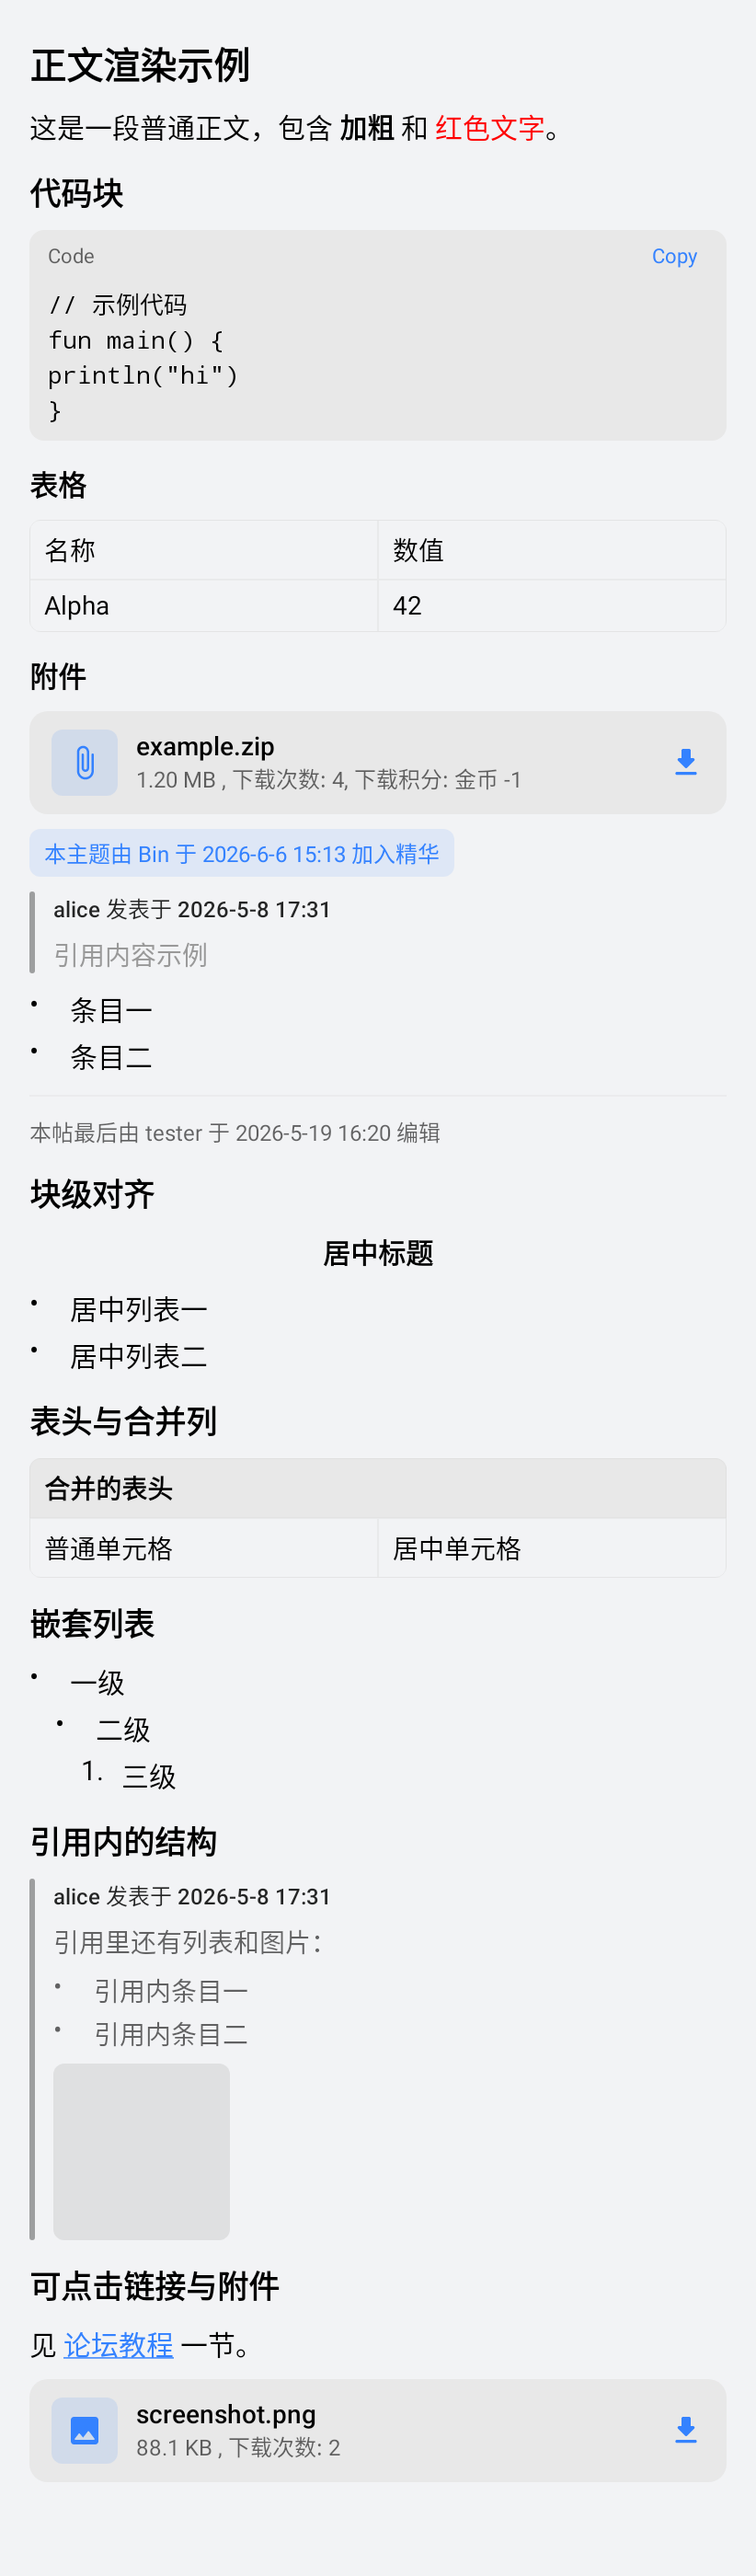
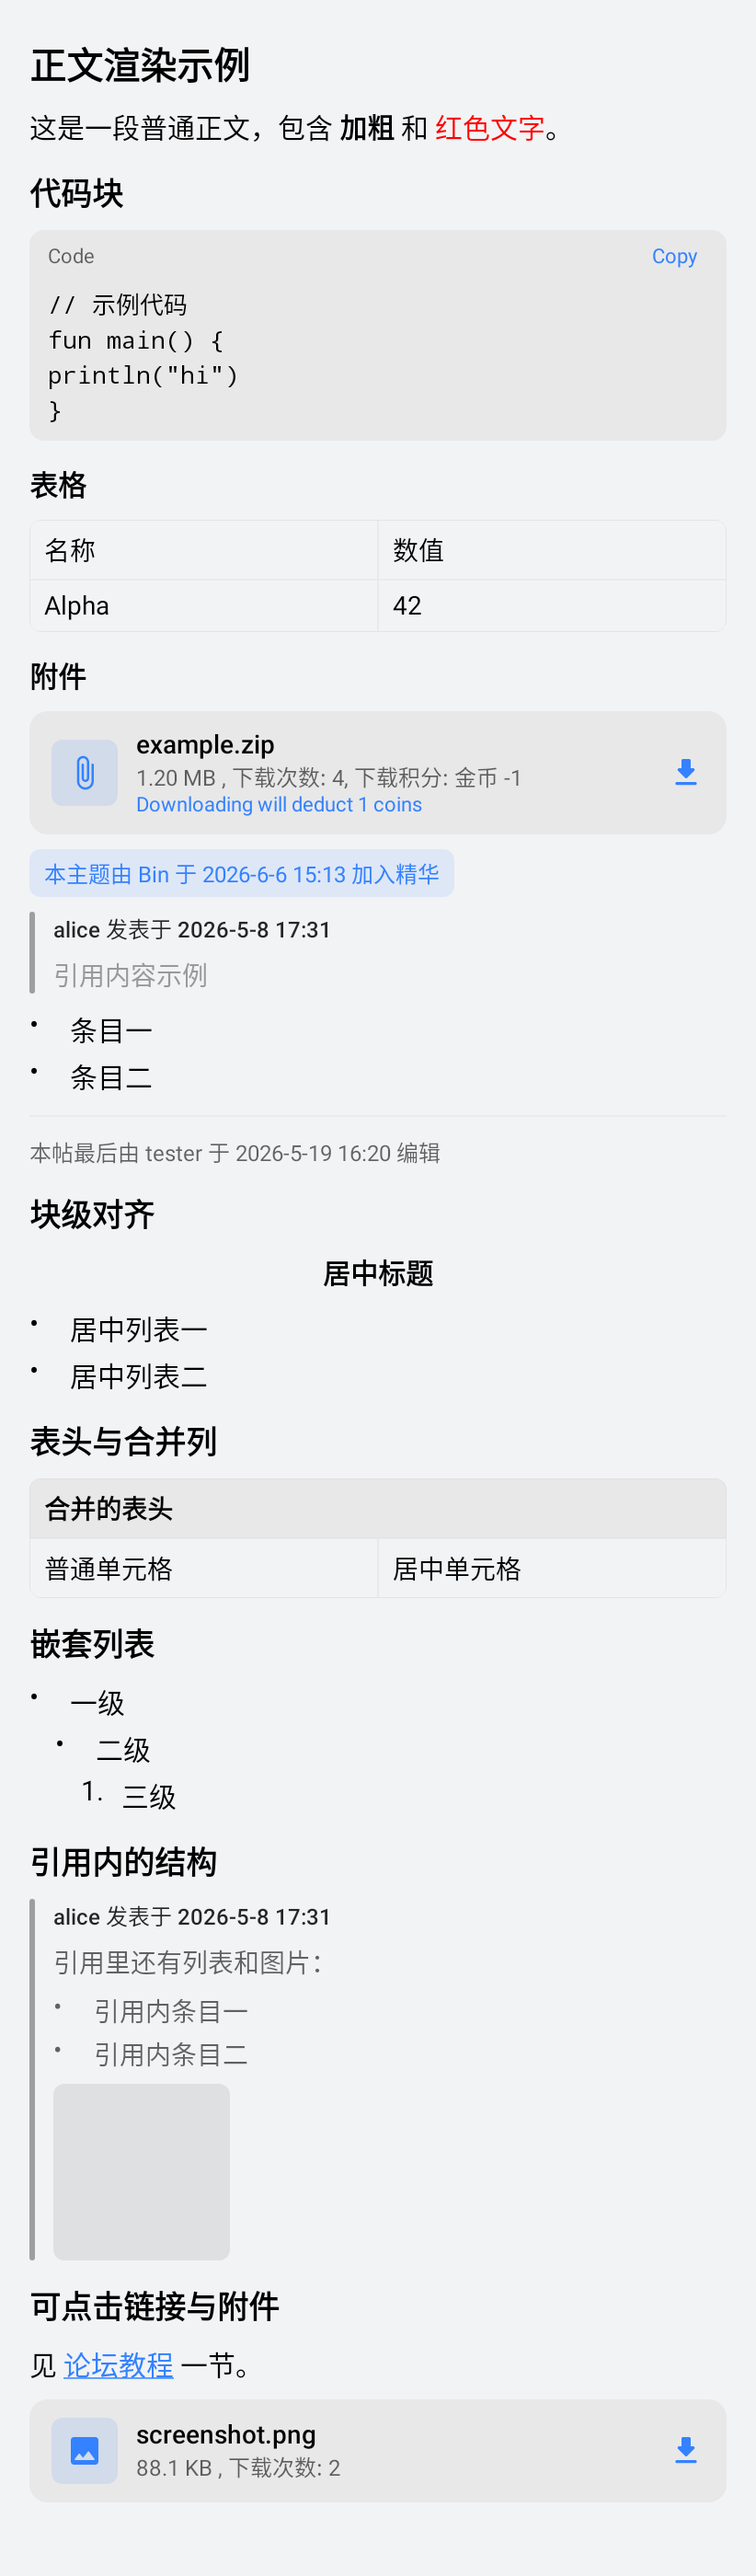
docs: record round 7 fixes and screenshots

diff --git a/docs/HANDOVER_CN.md b/docs/HANDOVER_CN.md
@@ -1609,3 +1609,27 @@ internal fun barBackdrop(contentBackdrop: LayerBackdrop?, hostBackdrop: LayerBac
   `os4-thread-post-cards.png`
 - ⚠ 本机无设备/模拟器：所有 UI 证据是 Robolectric 版面断言 + NATIVE 截图；
   「真机不崩」「玻璃观感」「下载面板实际观感」仍未实测。
+
+### 19. 第七轮真机反馈（2026-11-27）
+
+四条独立修复，全部来自机主实测反馈；本机无设备/模拟器，证据均为 fixture + 单测 + Robolectric 截图。
+
+| 反馈 | 根因 | 修复 | 证据 |
+|---|---|---|---|
+| App 里看不到站点草稿箱原有的草稿 | `ForumDraftsPage` 把 `!session.isLoggedIn` 放在所有数据分支之前，且 `loginRequired` 一旦命中就把 `loaded` 置真永不再问 → 已取回的行被登录卡片挡住 | 数据优先（有行就渲染）+ `ForumDraftsPhase{Rows,Loading,LoginRequired,Error,Empty}` 五态分离 + 登录后重问 + 每次加载打 `rows/parsed/finalUrl` 日志 | `drafts_live_list.html`（真实 2 行）、`ForumDraftServiceTest`、`ForumDraftsViewModelTest`(8) |
+| 图片不显示（thread-177269） | 相册图在 `ul.comiis_img_list > li > span > img`，`emitList` 只收文字 → 4 张图全丢且留 4 个空 bullet | 图片唯一列表识别为相册 → 每图一个 `Picture`；混合列表保留文字行并把图片作为尾随图 | `album_images_177269.html`（4 张 oos 图）、`ForumBodyGalleryTest`、截图 `album-gallery.png` |
+| 有些 bbcode 蓝色解析错位置 | `normalize()` 折叠空白后按单一 `leadingTrim` 平移所有 span/`LinkAnnotation` → 内部空白折叠使偏移漂移 | 折叠时记录 raw→new 索引映射，span/段落样式/link 注解统一按映射重定位 | `ForumRichTextTest` 新增 5 例（含真实 `rich_166223.html`、`album_images_177269.html`） |
+| 签到放到主页右上角 | 签到卡片原在设置页 | 首页顶栏右侧新增签到入口（`MiuixTopBarIconButton`），点击开 `ForumSignInSheet`（OS4 玻璃 / OS3 弹窗），签到卡片从设置页移除；游客走登录卡片 | `ForumHomeSignInEntryTest`(3)、`SettingsAccountEntryTest` 增「设置页已无签到卡」、截图 `home-sign-in-entry.png` |
+| 插件下载（thread-177248） | 付费附件（金币 -1）`mod=attachment` 不直接返回文件，而是 302 到 `misc&action=attachcredit` 提示信息页，其中 `点击此链接进行跳转` 的链接带**重新生成的 aid 哈希 + `ck`** | 下载器增加一次 attachcredit 握手跳（最多 1 次），并把「将扣除 N 金币」在下载前提示；拒绝/金币不足按服务端原文报错 | 真实抓取页 `attach_paid_credit.html`、`attach_paid_thread_real.html`、`ForumAttachmentDownloadTest` |
+
+**站点事实补充（本轮实测，写入 REVERSE_SPEC §23）**：attachcredit 页的提示语在
+`div.comiis_password_top > p`（不是桌面版 `#messagetext`），且该 `div` 里还有图标字体 glyph，
+所以只能取 `p` 并 `cleanTitle()`；页面本身不含 `attachcredit` 字样，识别必须靠
+「跳转文案 / `action=attachcredit` URL」，不能只靠关键字。
+
+**验证（合入 main 后）**：`:app:testStableDebugUnitTest` → **52 suites / 317 tests / 0 failures /
+0 errors / 0 skipped**；`:app:lintVitalStableRelease` → BUILD SUCCESSFUL；三语字符串各 **275** 键。
+
+**仍未验证**：OS4 玻璃签到面板在 Robolectric 下无法渲染（AGSL 着色器 `cannot swizzle value of
+type 'shader'`，与三点菜单同一限制），装机体感未测；付费附件的 `ck` 时效/一次性、再次 acw 挑战、
+扣费次数均只能在真机确认。
